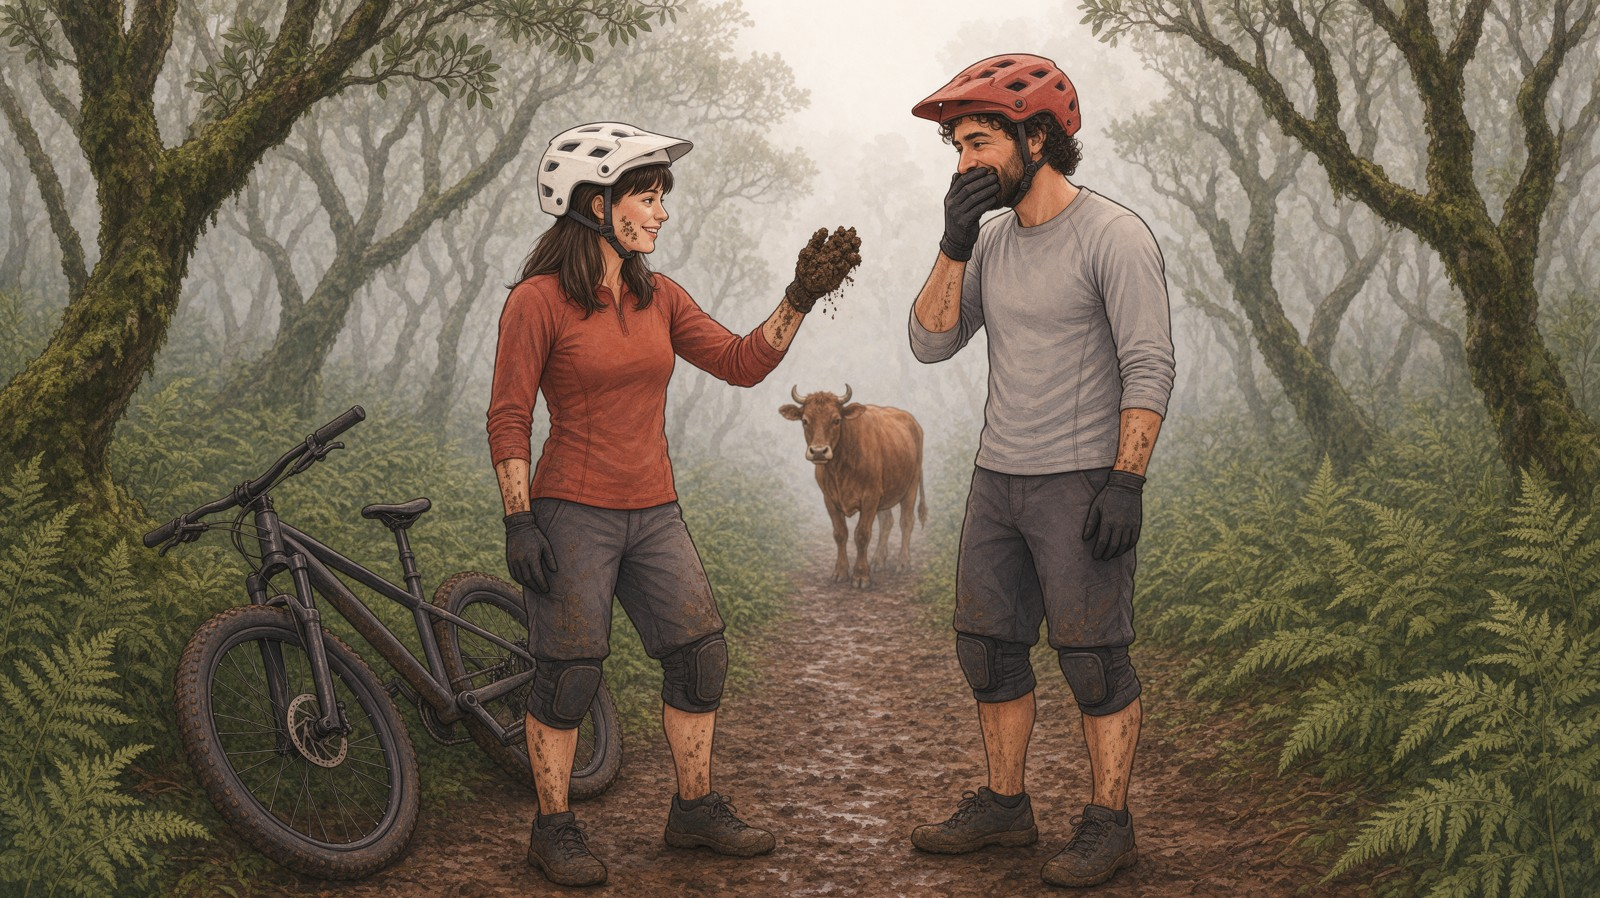
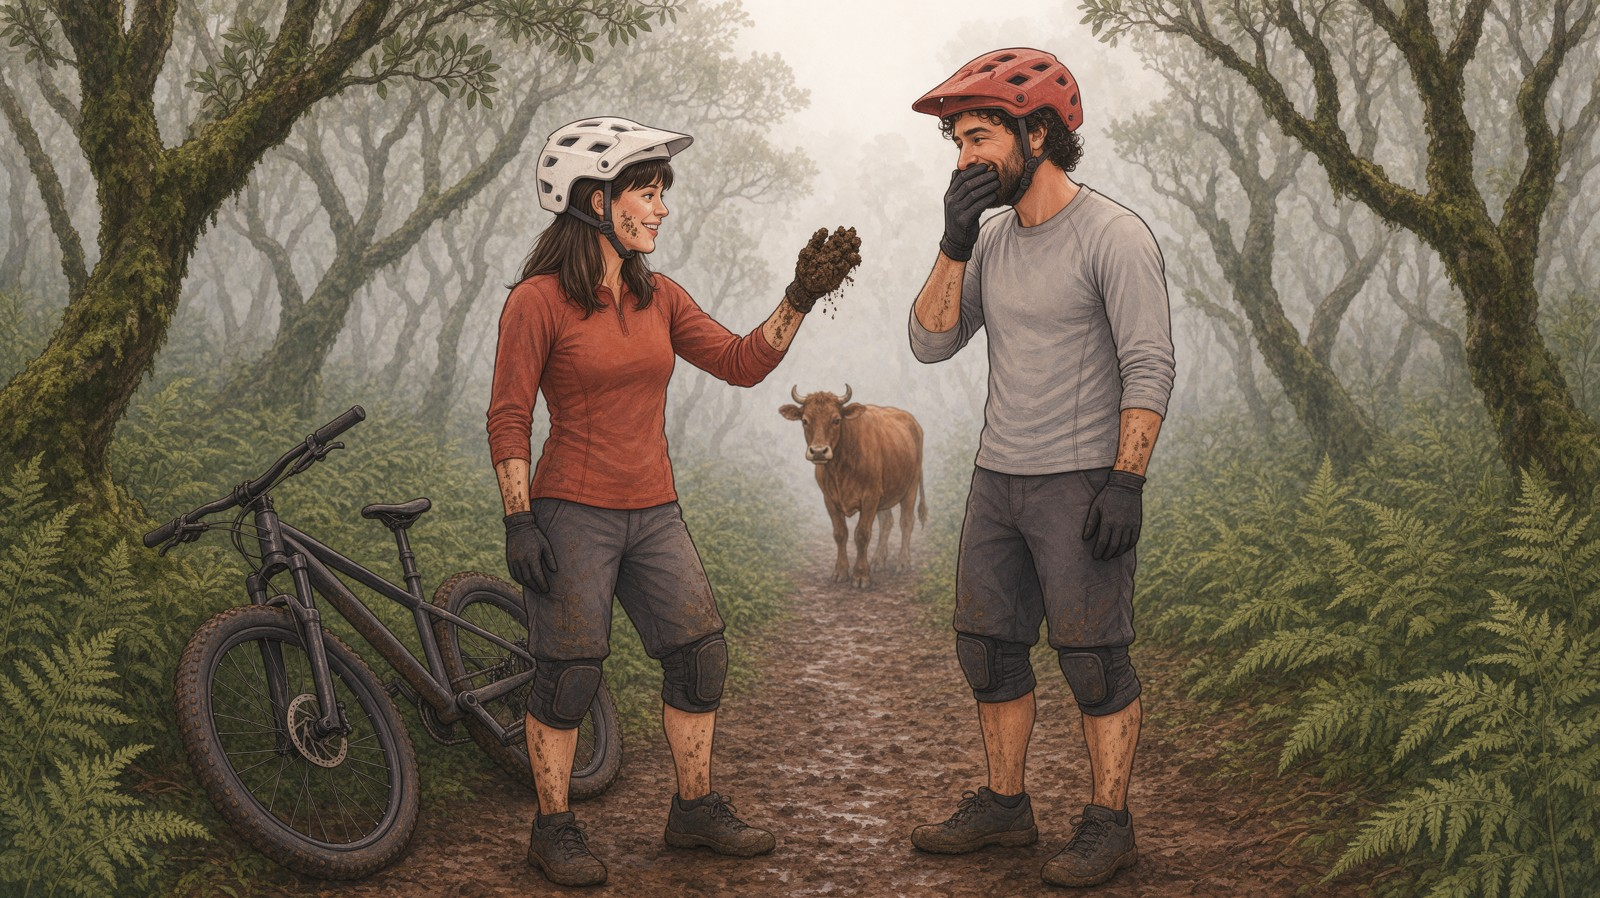
Book 20: review fixes — Ana's bob, long sleeves, Rui points, Rita falls, snug normal-size helmets; helmet rule in the illustrations skill
Claude-Session: https://claude.ai/code/session_01QETqfy7oCZmnPUVD333HTN

Changed region(s): [[0.5625, 0.0312, 0.6875, 0.2494], [0.3125, 0.1247, 0.4375, 0.2806]]

diff --git a/tools/b20/prompts20.py b/tools/b20/prompts20.py
@@ -26,7 +26,9 @@ TIAGO20 = "Tiago: Portuguese man, about 30, curly black hair, short black beard,
 RUI = ("Rui: Portuguese man about 35, lean and wiry, a narrow tanned face, clean-shaven, light-brown eyes, short neat dark-brown hair going slightly grey "
        "at the temples, small smile lines, an easy confident smile; a PE teacher who guides mountain-bike rides; " + GEAR
        + " a dark grey open-face bike helmet; his jersey is forest green.")
-BIKES = "The mountain bikes are all the same model: modern matte-black hardtail mountain bikes with front suspension forks, wide knobbly tyres and flat handlebars."
+HELMET = ("Every bike helmet sits LOW and SNUG on the head like a real helmet: the shell hugs the skull, down to just above the eyebrows and over the tops of the ears, "
+          "pressing the hair flat; only the ends of the hair show below the rim; the helmet is the same size on everyone and never grows to fit the hair: full hair is compressed under it; never perched on top of the hair.")
+BIKES = HELMET + " The mountain bikes are all the same model: modern matte-black hardtail mountain bikes with front suspension forks, wide knobbly tyres and flat handlebars."
 FANAL = ("Fanal in Madeira: a misty grassy upland clearing among huge ancient til trees (laurel-forest trees with massive gnarled trunks and twisting "
          "branches covered in green moss and ferns), soft white fog drifting between the trunks, damp green grass.")
 NEG = N.replace(', aged faces, wrinkles', '') + ", dog, corgi, logos, words, letters, numbers, glasses, spectacles, bun hairstyle, road bike, racing bike, lycra, full-face helmet"

diff --git a/skills/madeira-book-illustrations/SKILL.md b/skills/madeira-book-illustrations/SKILL.md
@@ -186,6 +186,8 @@ Download the result (`curl` the gen.krea.ai URL) and check it yourself before th
 6. **Cuttable:** go through the page's words and confirm each thing is whole, separate and big enough to cut cleanly (the Step 1 list). A thing hidden or merged now means a bad highlight later — fix it with a regional edit before approval.
 Show the user the full picture and the check image, and tell them plainly what matches and what doesn't.
 
+- **Helmets (bike, climbing, canyoning):** write in every prompt that the helmet sits low and snug like a real one — the shell hugs the skull, down to just above the eyebrows and over the tops of the ears, pressing the hair flat, only the hair ends showing below the rim. The helmet never grows to fit the hair: it is the same size on everyone (compare with a short-haired rider's helmet), and full hair is compressed under it. Krea otherwise perches helmets on top of full hair or inflates them over it (Ana's bob, Tiago's curls) so they look like they float; the user noticed in book 20. Check every helmeted head at full size.
+
 ## Krea cost (checked Nov 16, 2026 with `preflight: true`)
 - A krea-3 picture or regional edit at 2K costs about 130 units with `thinking_mode` "high" **and** "fast" alike, so always use "high". 1K saves only about 14% and is below the 1600×898 master size: keep 2K.
 - Fix a flaw with a **regional edit** on the existing page (one region, the other approved page as a reference) rather than a new page; describe the result, not the fault.

diff --git a/tools/b20/README.md b/tools/b20/README.md
@@ -5,8 +5,8 @@ Status (Nov 16, 2026): text APPROVED (checkpoint 1); all 8 pictures painted, fix
 Masters and Krea ids in `books/20-nevoeiro/art/` (`krea_urls.txt`); prompts in `prompts20.py` (refs in `refs.txt`).
 Outfits: MTB jerseys — Rita terracotta + white helmet, Ana teal + mustard, João navy + blue, Tiago light grey + red,
 Rui forest green + dark grey; dark grey baggy shorts, black knee pads, black gloves; five identical matte-black hardtails.
-Known soft points: p2 Ana's hair longer and straighter than her bob, Rui holds the bar rather than pointing at the lever;
-some jerseys short-sleeved on p2 and p6; p4 Rita is tipping into the ferns rather than lying in them.
+Fixed after review (Nov 16): p2 Ana bob, long sleeves, Rui points at the lever; p4 Rita falling; p6 long sleeves; helmets
+snug and normal-sized on p2–p6 (user: "helmet size doesn't increase, hair gets compressed").
 Story: mountain biking at the Fanal trail centre (old til trees, fog, free-range cows) with Rui, João's friend, a PE
 teacher who guides mountain-bike rides. Rita falls in the mud after a cow blocks the trail; the fog lifts over the
 north coast; Tiago fixes a puncture; Ana tells Rita that João asked her to move in with him — no answer yet.
